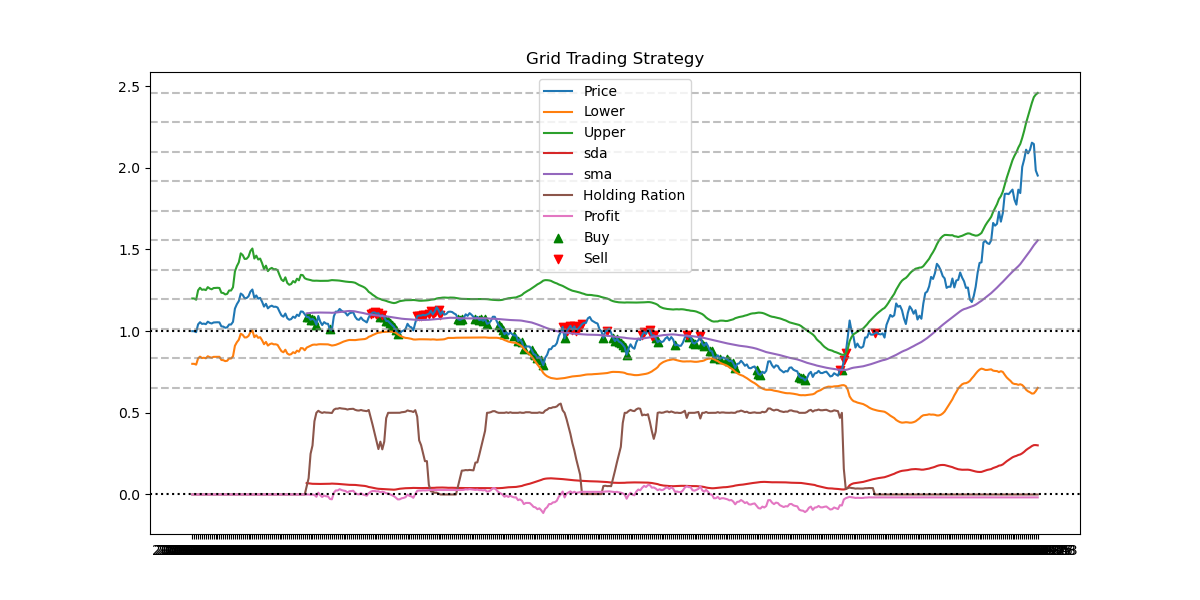
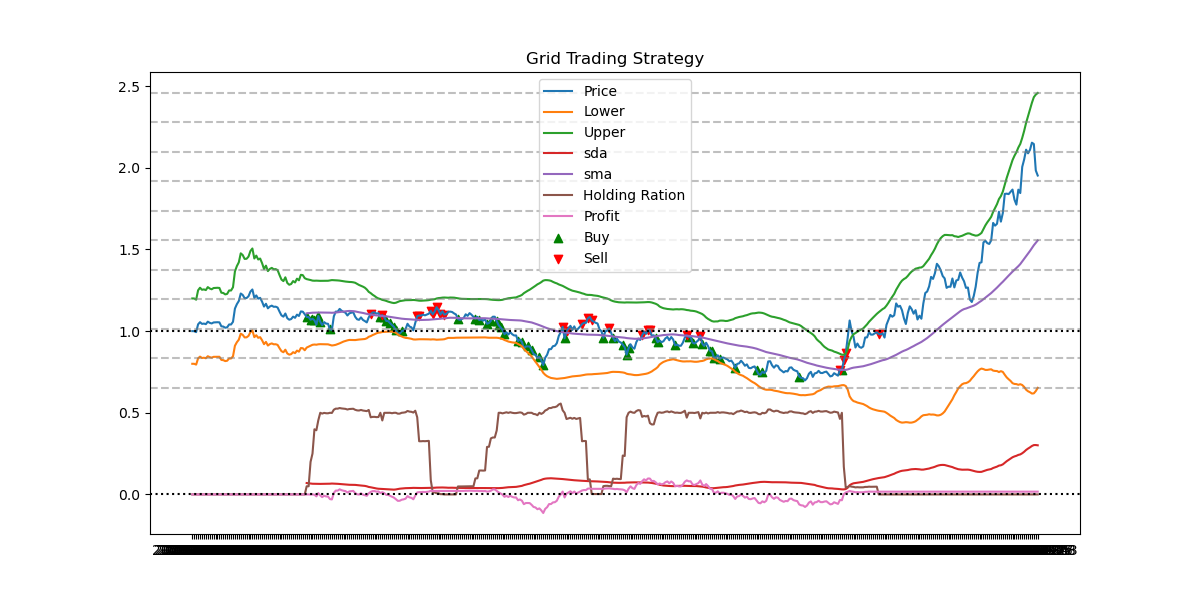
tt

diff --git a/ayaa/strategy/grid_strategy.py b/ayaa/strategy/grid_strategy.py
@@ -29,6 +29,8 @@ class GridTradingStrategy:
         
         # 生成网格区间
         self.generate_grid_levels()
+        self.last_grid = 0
+        self.last_trade_time = 0
    
     def set_financer(self, financer):
         self.financer = financer
@@ -59,8 +61,46 @@ class GridTradingStrategy:
     def calculate_order_size(self, price):
         """计算单次交易数量"""
         return (self.financer.init_cash * self.grid_params['order_percent']) / price
-    
+
     def execute_strategy(self, current_date, current_price):
+        """执行策略"""
+        quantity = 0
+        current_grid = np.digitize(current_price, self.grid_levels)
+        self.last_trade_time += 1
+        
+        if current_grid != self.last_grid:
+            self.last_grid = current_grid
+            self.last_trade_time = 0
+
+            # 检查每个网格线
+            for level in self.grid_levels:
+                # 买入条件：价格低于网格线且未持仓
+                if current_price <= level:
+                    order_qty = self.calculate_order_size(current_price)
+                    quantity += order_qty
+                # 卖出条件：价格高于网格线且有持仓
+                if current_price >= level:
+                    order_qty = self.calculate_order_size(current_price)
+                    quantity -= order_qty
+
+        real_quantity = 0
+        stype = ''
+        if quantity > 1:
+            real_quantity = self.financer.buy(current_date, current_price, abs(quantity))
+            stype = 'BUY'
+        if quantity < -1:
+            real_quantity = self.financer.sell(current_date, current_price, abs(quantity))
+            stype = 'SELL'
+        if real_quantity > 1:
+            # print(f'date : {current_date} price : {current_price} quantity  : {real_quantity} type  : {stype}')
+            self.positions.append({
+                'date': current_date,
+                'price': current_price,
+                'quantity' : real_quantity,
+                'type' : stype,
+            })
+ 
+    '''def execute_strategy(self, current_date, current_price):
         """执行策略"""
         quantity = 0
         
@@ -90,7 +130,7 @@ class GridTradingStrategy:
                 'price': current_price,
                 'quantity' : real_quantity,
                 'type' : stype,
-            })
+            })'''
     def backtest(self, symbol, data):
         self.symbol = symbol
         self.data = data
